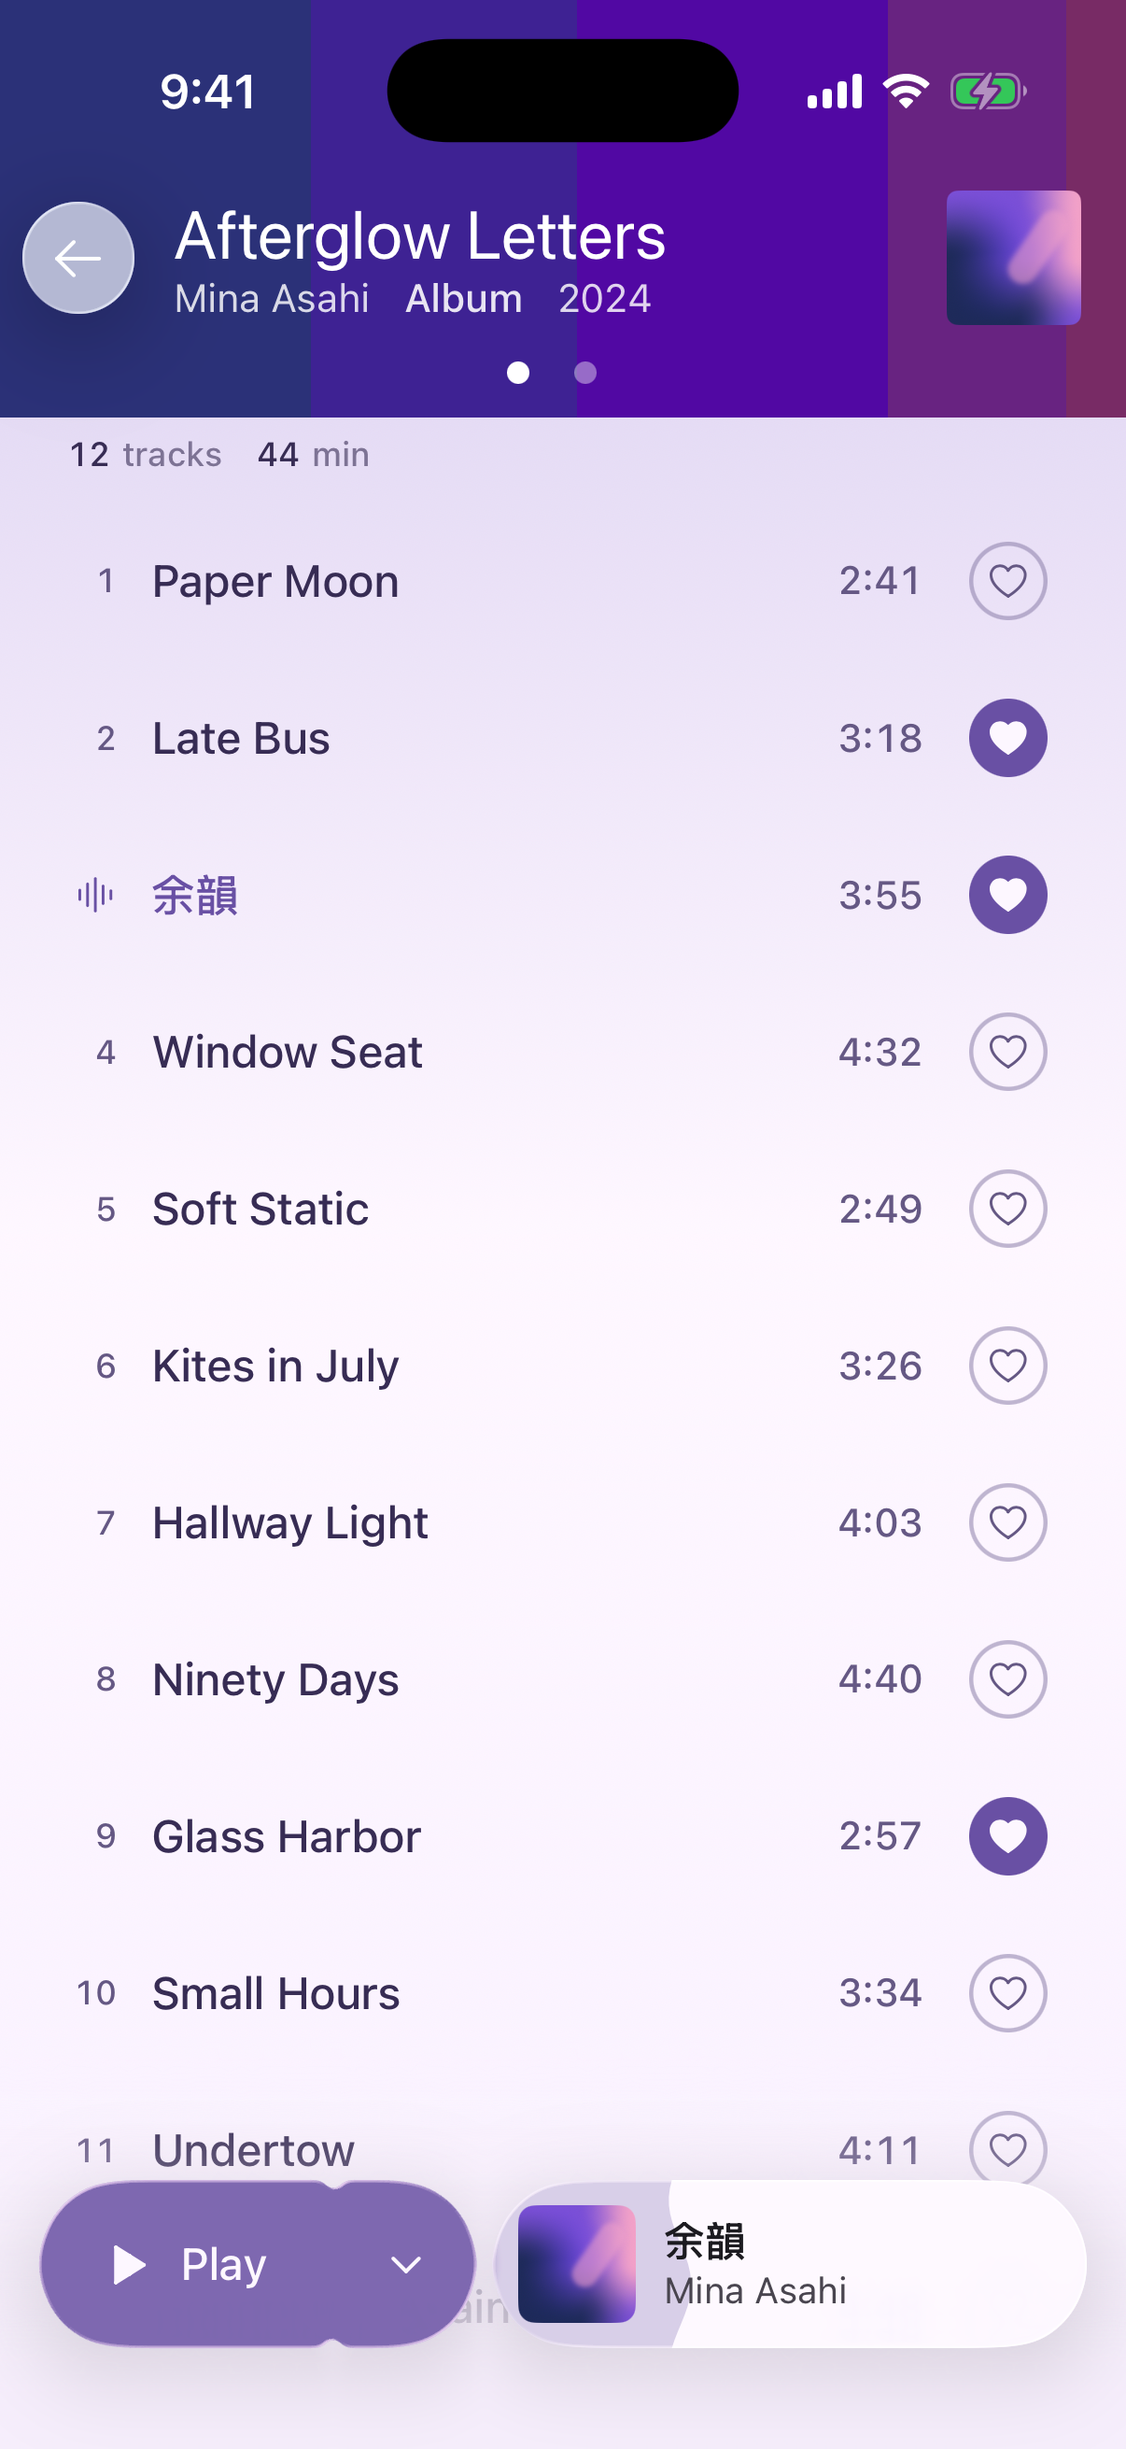
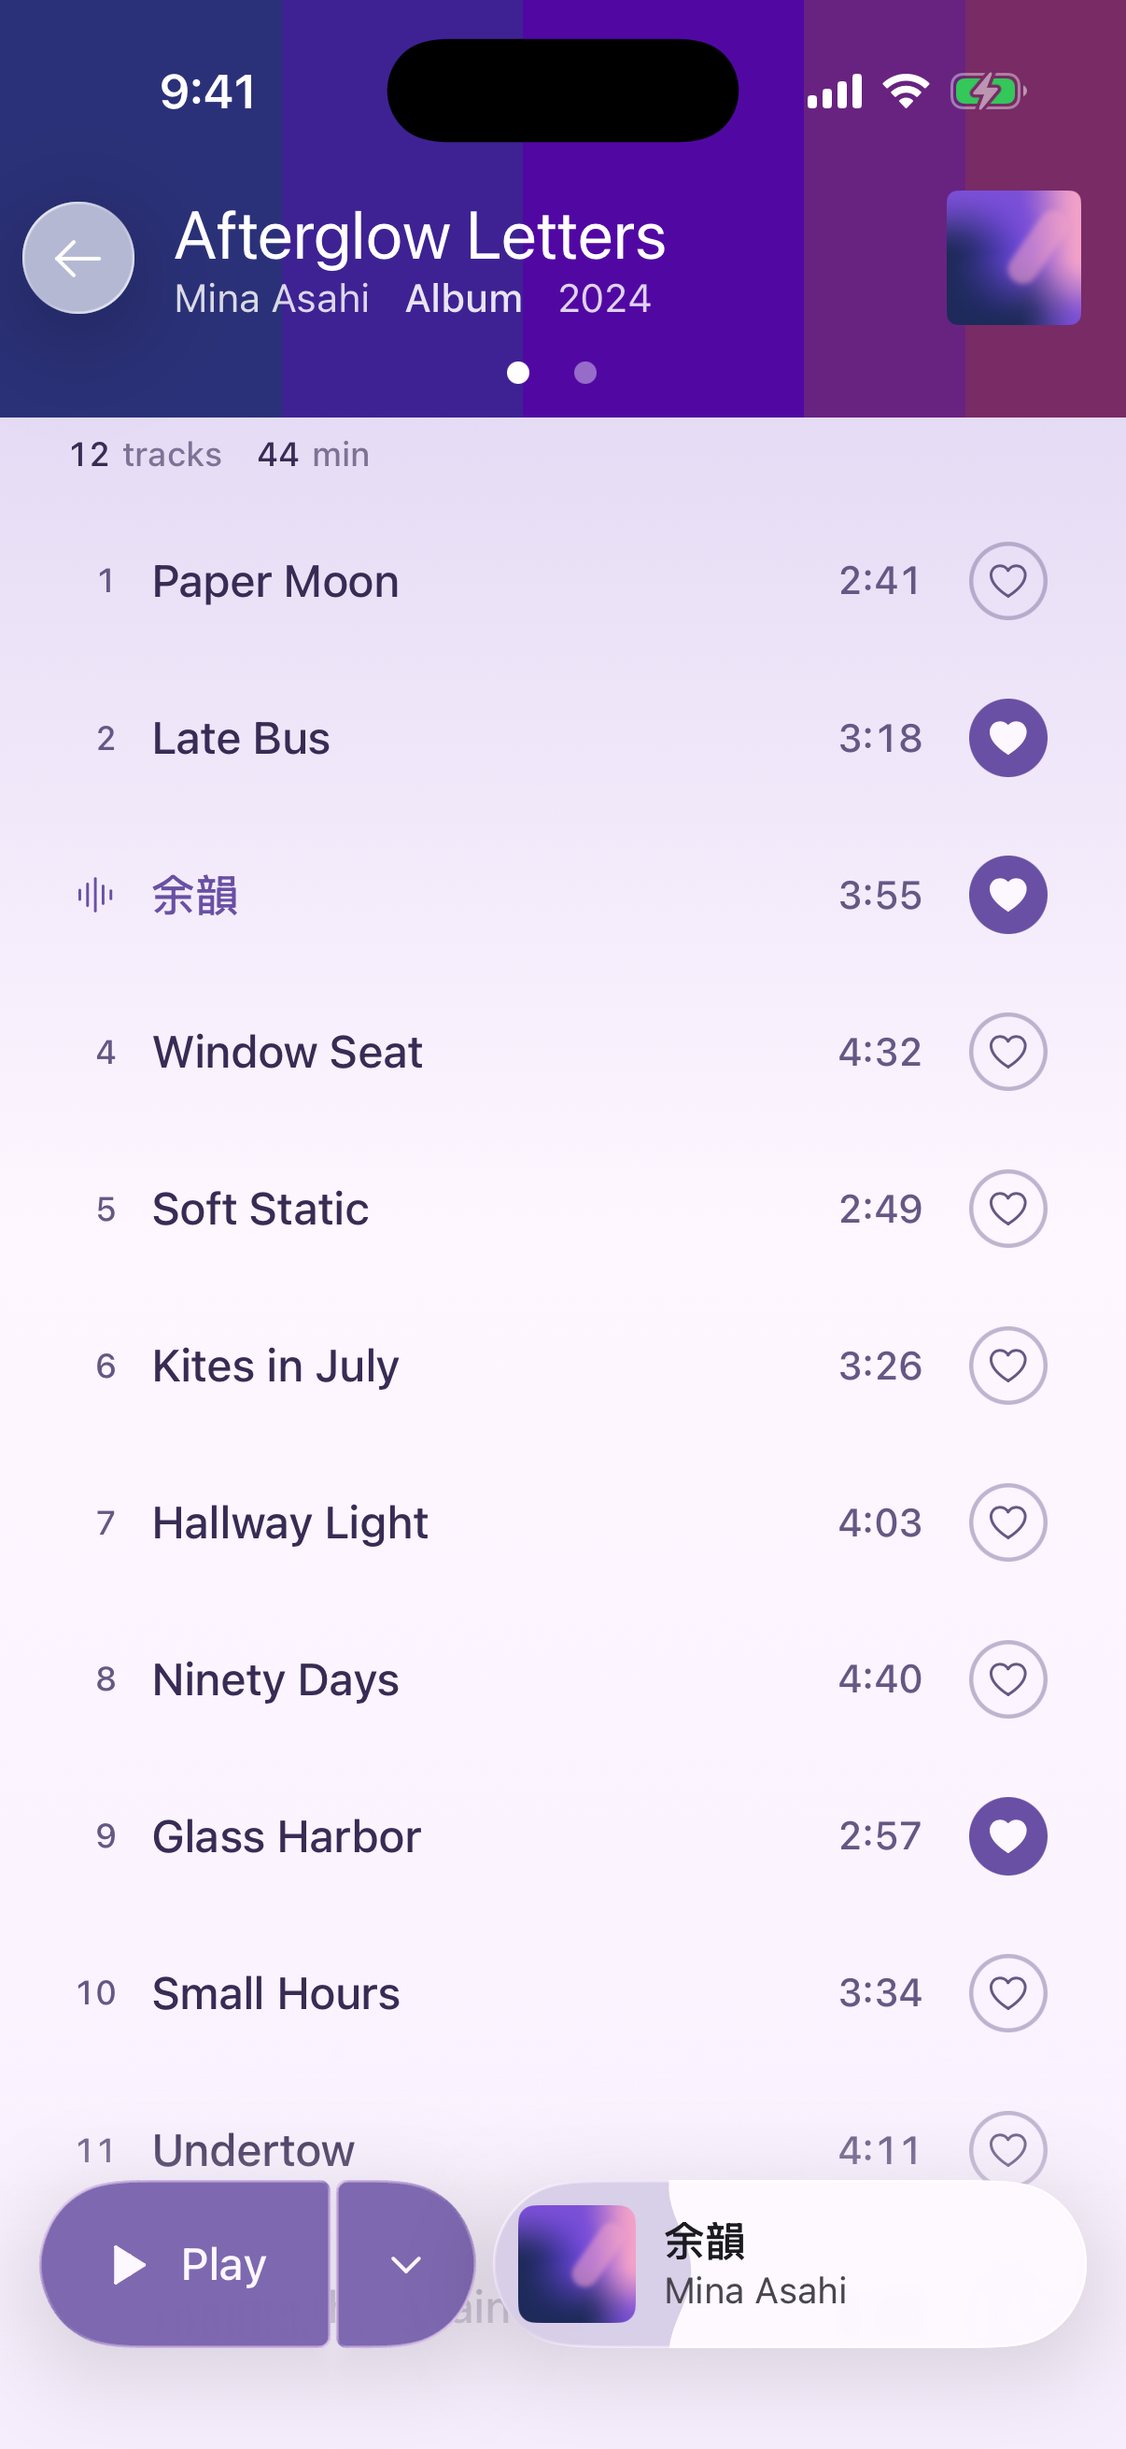
ios: real Yoin mark arms behind the album cover, spectrum fly-in from cover slices, M3 split button joint

diff --git a/iosApp/Yoin/Theme/YoinMarkPaths.swift b/iosApp/Yoin/Theme/YoinMarkPaths.swift
@@ -1,0 +1,115 @@
+import SwiftUI
+
+/// The real Yoin mark (three arms), ported from Android component/YoinMark.kt
+/// (exported from Figma, same as res/drawable/ic_yoin_launcher_foreground.xml).
+/// 1024×1024 view box; the arms pivot around the hub (512, 500).
+/// Arm 0 = tertiary ("first"), 1 = primary (violet), 2 = secondary (navy).
+enum YoinMarkPaths {
+    static let viewBox: CGFloat = 1024
+    static let hub = CGPoint(x: 512, y: 500)
+
+    /// (fill, centre line, line stroke width; 0 = the line is a filled sliver)
+    static let arms: [(fill: Path, line: Path, lineWidth: CGFloat)] = defs.map {
+        (parse($0.0), parse($0.1), $0.2)
+    }
+
+    private static let defs: [(String, String, CGFloat)] = [
+        ("M172.678 401.921C149.97 396.319 99.5819 390.37 66.6847 432.804C32.9531 476.314 41.3602 538.563 85.4627 571.842C106.711 587.875 134.238 598.446 151.945 604.775C173.271 612.397 197.656 619.65 221.53 626.142C228.147 627.941 256.803 632.768 263.5 634.5C258.128 687.726 249.508 750.719 310.209 800.246C352.996 835.156 416.368 829.236 451.753 787.025C486.19 745.944 506.216 688.882 466.5 653.5C466.5 653.5 448.817 634.685 456.166 622.084C459.88 615.715 482.277 584.668 503.523 555.516C522.775 529.098 509.29 491.515 477.595 483.515L431.67 471.924L172.678 401.921Z",
+         "M87 437C131.456 476.373 325.523 529.493 417 551.132C380.523 608.976 329.456 678.162 417 762",
+         8),
+        ("M772.889 238.22C815.814 242.707 846.934 281.138 842.398 324.057C837.862 366.977 799.388 398.132 756.464 393.645C727.689 390.638 679.626 406.139 627.397 433.316C603.678 445.659 582.756 458.439 567.736 468.172C560.271 473.008 554.378 477.018 550.455 479.743C548.496 481.103 547.036 482.138 546.125 482.79C545.67 483.115 545.353 483.344 545.18 483.469C545.148 483.492 545.121 483.511 545.099 483.526C510.406 508.975 461.453 501.677 436.034 467.022C435.982 466.953 435.872 466.806 435.701 466.584C435.279 466.033 434.497 465.027 433.37 463.625C431.11 460.817 427.489 456.458 422.606 451.018C412.779 440.07 398.19 425.13 379.663 409.763C341.67 378.251 292.47 349.338 237.539 342.845C194.68 337.779 164.082 298.932 169.197 256.077C174.312 213.222 213.202 182.588 256.062 187.654C352.455 199.048 429.312 247.783 479.545 289.447C491.717 299.544 502.639 309.485 512.232 318.788C525.125 311.108 539.674 302.873 555.354 294.713C609.061 266.767 693.88 229.962 772.889 238.22ZM545.029 483.579C545.031 483.577 545.033 483.576 545.036 483.574C545.042 483.569 545.05 483.563 545.061 483.555C545.066 483.551 545.076 483.545 545.079 483.543L545.078 483.542C545.052 483.561 545.036 483.574 545.029 483.579Z",
+         "M511.972 414.52L509.931 415.967L511.37 417.997L513.408 416.564L511.972 414.52ZM209.285 219L208.945 221.477C299.039 233.708 374.271 282.255 427.066 327.894C453.446 350.699 474.179 372.738 488.313 389.073C495.379 397.238 500.793 403.975 504.436 408.665C506.257 411.009 507.636 412.842 508.557 414.085C509.017 414.706 509.363 415.18 509.593 415.497C509.708 415.656 509.794 415.775 509.85 415.854C509.878 415.893 509.899 415.922 509.913 415.941C509.919 415.951 509.924 415.958 509.927 415.962C509.929 415.964 509.93 415.966 509.931 415.967C509.931 415.967 509.931 415.967 511.972 414.52C514.012 413.073 514.011 413.072 514.01 413.07C514.009 413.068 514.007 413.066 514.005 413.063C514.001 413.057 513.995 413.048 513.987 413.037C513.971 413.014 513.947 412.982 513.916 412.939C513.855 412.853 513.764 412.727 513.644 412.561C513.404 412.23 513.048 411.742 512.577 411.106C511.634 409.834 510.233 407.971 508.387 405.595C504.695 400.843 499.226 394.038 492.097 385.799C477.841 369.324 456.939 347.105 430.339 324.11C377.173 278.15 301.062 228.937 209.624 216.523L209.285 219ZM511.972 414.52C513.408 416.564 513.408 416.564 513.409 416.563C513.411 416.563 513.412 416.561 513.415 416.559C513.42 416.556 513.429 416.55 513.44 416.542C513.462 416.526 513.496 416.503 513.542 416.471C513.633 416.407 513.769 416.312 513.951 416.186C514.315 415.934 514.858 415.558 515.573 415.069C517.004 414.089 519.123 412.652 521.867 410.827C527.357 407.178 535.349 401.977 545.345 395.784C565.34 383.397 593.341 367.047 625.364 351.193C689.565 319.408 769.366 289.913 833.233 297.712L833.539 295.231L833.845 292.749C768.383 284.755 687.4 314.904 623.15 346.713C590.948 362.656 562.805 379.089 542.715 391.536C532.668 397.76 524.631 402.99 519.102 406.666C516.337 408.504 514.2 409.954 512.751 410.945C512.027 411.441 511.475 411.822 511.103 412.08C510.917 412.209 510.776 412.307 510.681 412.374C510.634 412.407 510.598 412.432 510.574 412.449C510.562 412.458 510.552 412.464 510.546 412.469C510.543 412.471 510.54 412.473 510.539 412.474C510.537 412.475 510.536 412.476 511.972 414.52Z",
+         0),
+        ("M767.435 383.407C788.087 343.579 835.72 324.591 878.753 340.771C925.194 358.234 948.689 410.045 931.23 456.494C914.712 500.436 877.296 527.369 853.146 542.122C825.327 559.116 792.803 573.003 761.852 584.176C739.154 592.37 715.544 599.723 692.517 606.16C694.132 611.89 695.648 617.706 697.044 623.59C708.757 672.964 715.743 742.622 684.615 806.496C662.876 851.103 609.099 869.638 564.499 847.896C519.9 826.154 501.368 772.368 523.106 727.761C527.415 718.919 530.182 698.615 522.225 665.077C514.774 633.667 501.025 604.12 491.764 588.484L475.768 561.478C451.638 520.739 475.49 468.426 522.07 459.928L552.934 454.296C591.446 447.27 650.468 433.336 700.854 415.148C726.258 405.977 746.213 396.875 759.491 388.764C763.261 386.461 765.811 384.655 767.435 383.407Z",
+         "M900 381C870.952 458.266 639.23 518.528 527 539.001C562.367 598.701 621.217 742.48 573.684 840",
+         5),
+    ]
+
+    /// Minimal SVG path parser for the absolute M / L / C / Z commands these use.
+    static func parse(_ d: String) -> Path {
+        var path = Path()
+        var nums: [CGFloat] = []
+        var cmd: Character = "M"
+        func flush() {
+            switch cmd {
+            case "M":
+                var i = 0
+                while i + 1 < nums.count {
+                    let p = CGPoint(x: nums[i], y: nums[i + 1])
+                    if i == 0 { path.move(to: p) } else { path.addLine(to: p) }
+                    i += 2
+                }
+            case "L":
+                var i = 0
+                while i + 1 < nums.count { path.addLine(to: CGPoint(x: nums[i], y: nums[i + 1])); i += 2 }
+            case "C":
+                var i = 0
+                while i + 5 < nums.count {
+                    path.addCurve(to: CGPoint(x: nums[i + 4], y: nums[i + 5]),
+                                  control1: CGPoint(x: nums[i], y: nums[i + 1]),
+                                  control2: CGPoint(x: nums[i + 2], y: nums[i + 3]))
+                    i += 6
+                }
+            case "Z":
+                path.closeSubpath()
+            default: break
+            }
+            nums.removeAll()
+        }
+        var token = ""
+        func endToken() {
+            if let v = Double(token) { nums.append(CGFloat(v)) }
+            token = ""
+        }
+        for ch in d {
+            if "MLCZ".contains(ch) {
+                endToken(); flush(); cmd = ch
+                if ch == "Z" { flush() }
+            } else if ch == " " || ch == "," {
+                endToken()
+            } else if ch == "-" && !token.isEmpty && !token.hasSuffix("e") {
+                endToken(); token = "-"
+            } else {
+                token.append(ch)
+            }
+        }
+        endToken(); flush()
+        return path
+    }
+}
+
+/// Draws chosen arms of the mark in a view-box space (Canvas helper).
+struct YoinArmsCanvas: View {
+    var arms: [(index: Int, color: Color)]
+    var lineColor: Color
+    /// Android MarkPose: uniform scale about the box centre, a y offset, and a
+    /// horizontal squash about the hub.
+    var scale: CGFloat = 1
+    var translationY: CGFloat = 0
+    var squashX: CGFloat = 1
+
+    var body: some View {
+        Canvas { gc, size in
+            let s = min(size.width, size.height) / YoinMarkPaths.viewBox
+            gc.translateBy(x: 0, y: translationY)
+            gc.translateBy(x: size.width / 2, y: size.height / 2)
+            gc.scaleBy(x: scale, y: scale)
+            gc.translateBy(x: -size.width / 2, y: -size.height / 2)
+            gc.translateBy(x: (size.width - YoinMarkPaths.viewBox * s) / 2, y: (size.height - YoinMarkPaths.viewBox * s) / 2)
+            gc.scaleBy(x: s, y: s)
+            let hub = YoinMarkPaths.hub
+            gc.translateBy(x: hub.x, y: hub.y)
+            gc.scaleBy(x: squashX, y: 1)
+            gc.translateBy(x: -hub.x, y: -hub.y)
+            for arm in arms {
+                let a = YoinMarkPaths.arms[arm.index]
+                gc.fill(a.fill, with: .color(arm.color))
+                if a.lineWidth > 0 {
+                    gc.stroke(a.line, with: .color(lineColor), style: StrokeStyle(lineWidth: a.lineWidth, lineCap: .round))
+                } else {
+                    gc.fill(a.line, with: .color(lineColor))
+                }
+            }
+        }
+    }
+}

diff --git a/iosApp/Yoin/Album/AlbumDetailView.swift b/iosApp/Yoin/Album/AlbumDetailView.swift
@@ -20,7 +20,7 @@ struct AlbumDetailView: View {
     var album: Album
     var padColumn = false
 
-    @State private var p: CGFloat = LaunchConfig.screen == "album-list" ? 1 : 0
+    @State private var p: CGFloat = LaunchConfig.screen == "album-list" ? 1 : LaunchConfig.screen == "album-mid" ? 0.42 : 0
     @State private var dragBase: CGFloat?
 
     /// The cover's own scheme (title, blocks, dots, Play) and the app's
@@ -50,7 +50,7 @@ struct AlbumDetailView: View {
                 trackList(w: w)
                     .opacity(e)
                     .allowsHitTesting(e >= 0.5)
-                spectrum(w: w, top: geo.safeAreaInsets.top)
+                spectrum(w: w, side: side, top: geo.safeAreaInsets.top)
                 header(white: false, w: w)
                     .opacity(1 - smooth(p, 0.25, 0.7))
                 header(white: true, w: w)
@@ -126,29 +126,22 @@ struct AlbumDetailView: View {
         .frame(width: w)
     }
 
-    /// The Yoin mark's lower arms behind the cover: arm 0 in the cover's
-    /// primary (left), arm 2 in its secondary (right), scaled up so they bleed
-    /// off both edges, clipped at the header.
+    /// The real Yoin mark's arms 0 and 2 behind the cover (AlbumSpectrumBar
+    /// drawButterfly, Compact pose): box = (0, header bottom, W, band),
+    /// scale 1.8 about its centre, translationY −0.1 × band, squash 1.8 about
+    /// the hub; arm 0 in the cover's primary, arm 2 in its secondary, centre
+    /// lines in surface @ 0.65; clipped above at the header.
     private func butterfly(w: CGFloat, side: CGFloat, band: CGFloat) -> some View {
-        let hubY = headerContent + band * 0.5 - band * 0.1
-        return ZStack {
-            Capsule()
-                .fill(s.primary)
-                .frame(width: w * 0.36, height: band * 0.95)
-                .rotationEffect(.degrees(45))
-                .position(x: w * 0.5 - w * 0.26, y: hubY + band * 0.24)
-            Capsule()
-                .fill(s.secondary)
-                .frame(width: w * 0.36, height: band * 0.95)
-                .rotationEffect(.degrees(-45))
-                .position(x: w * 0.5 + w * 0.26, y: hubY + band * 0.24)
-        }
-        // Clipped only above (at the header), so the arms' rounded ends show.
-        .frame(width: w, height: headerContent + band * 1.7, alignment: .top)
-        .mask(alignment: .top) {
-            Rectangle().padding(.top, headerContent)
-        }
-        .allowsHitTesting(false)
+        YoinArmsCanvas(arms: [(0, s.primary), (2, s.secondary)],
+                       lineColor: app.surface.opacity(0.65),
+                       scale: 1.8, translationY: -0.1 * band, squashX: 1.8)
+            .frame(width: w, height: band)
+            .offset(y: headerContent)
+            .frame(width: w, height: headerContent + band * 1.8, alignment: .topLeading)
+            .mask(alignment: .top) {
+                Rectangle().padding(.top, headerContent)
+            }
+            .allowsHitTesting(false)
     }
 
     /// Hero cover ↔ 48 pt stamp at the end of the title row.
@@ -340,22 +333,46 @@ struct AlbumDetailView: View {
 
     // MARK: Spectrum bar
 
-    private func spectrum(w: CGFloat, top: CGFloat) -> some View {
+    /// AlbumSpectrumBar drawSpectrum: each of the 28 strips starts as a slice
+    /// of the cover and flies to its slot in the header bar
+    /// (q = smoothstep(0.06 + lag, 0.6 + lag, p), lag = 0.22 × i / 28); the
+    /// cover slice fades out as the flat locked color fades in over
+    /// smoothstep(0, 0.55, q).
+    private func spectrum(w: CGFloat, side: CGFloat, top: CGFloat) -> some View {
         let colors = AlbumSpectrum.colors(for: album)
         let n = AlbumSpectrum.strips
-        let height = top + headerContent
-        return HStack(spacing: 0) {
+        let slice = side / CGFloat(n)
+        let heroX = (w - side) / 2, heroY = headerContent + 28
+        let barH = top + headerContent
+        return ZStack(alignment: .topLeading) {
             ForEach(0..<n, id: \.self) { i in
                 let lag = 0.22 * CGFloat(i) / CGFloat(n)
-                Rectangle()
-                    .fill(colors[min(i, colors.count - 1)])
-                    .frame(width: w / CGFloat(n) + 1.5)
-                    .opacity(smooth(smooth(p, 0.06 + lag, 0.6 + lag), 0, 0.55))
+                let q = smooth(p, 0.06 + lag, 0.6 + lag)
+                let flat = smooth(q, 0, 0.55)
+                let x = lerp(heroX + CGFloat(i) * slice, CGFloat(i) * w / CGFloat(n), q)
+                let y = lerp(heroY, -top, q)
+                let sw = lerp(slice, w / CGFloat(n), q) + 1.5
+                let sh = lerp(side, barH, q)
+                ZStack(alignment: .topLeading) {
+                    CoverArt(palette: album.palette, cornerRadius: 0, seed: album.seed)
+                        .frame(width: side, height: side)
+                        .offset(x: -CGFloat(i) * slice)
+                        .frame(width: slice, height: side, alignment: .topLeading)
+                        .clipped()
+                        .scaleEffect(x: sw / slice, y: sh / side, anchor: .topLeading)
+                        .frame(width: sw, height: sh, alignment: .topLeading)
+                        .opacity(1 - flat)
+                    Rectangle()
+                        .fill(colors[min(i, colors.count - 1)])
+                        .frame(width: sw, height: sh)
+                        .opacity(flat)
+                }
+                .frame(width: sw, height: sh, alignment: .topLeading)
+                .clipped()
+                .offset(x: x, y: y)
             }
         }
-        .frame(width: w, height: height, alignment: .leading)
-        .clipped()
-        .offset(y: -top)
+        .frame(width: w, alignment: .topLeading)
         .opacity(p > 0.001 ? 1 : 0)
         .allowsHitTesting(false)
     }

diff --git a/iosApp/Yoin/Shell/ShellBar.swift b/iosApp/Yoin/Shell/ShellBar.swift
@@ -191,10 +191,12 @@ struct ShellBar: View {
 
     /// Android detail pose: [Play split, 156 pt][8][now-playing pill]. Both
     /// halves in the cover's primary / onPrimary; ▾ opens the detail menu.
+    /// M3 SplitButton: 2 pt gap, 4 pt inner corners, full outer corners. Own
+    /// container with 0 spacing, so the halves don't melt into one blob.
     private func playSplit(_ album: Album) -> some View {
         let s = CoverScheme(album: album, dark: colorScheme == .dark)
         let tint = s.primary.opacity(0.85)
-        return HStack(spacing: 2) {
+        return GlassEffectContainer(spacing: 0) { HStack(spacing: 2) {
             Button {} label: {
                 HStack(spacing: 8) {
                     YoinIcon("play_filled", size: 20)
@@ -209,7 +211,7 @@ struct ShellBar: View {
             .buttonStyle(.plain)
             .glassEffect(.regular.tint(tint).interactive(),
                          in: UnevenRoundedRectangle(topLeadingRadius: 30, bottomLeadingRadius: 30,
-                                                    bottomTrailingRadius: 6, topTrailingRadius: 6))
+                                                    bottomTrailingRadius: 4, topTrailingRadius: 4))
             .glassEffectID("home", in: glassNS)
 
             Menu {
@@ -230,11 +232,11 @@ struct ShellBar: View {
             }
             .buttonStyle(.plain)
             .glassEffect(.regular.tint(tint).interactive(),
-                         in: UnevenRoundedRectangle(topLeadingRadius: 6, bottomLeadingRadius: 6,
+                         in: UnevenRoundedRectangle(topLeadingRadius: 4, bottomLeadingRadius: 4,
                                                     bottomTrailingRadius: 30, topTrailingRadius: 30))
             .glassEffectID("split", in: glassNS)
             .accessibilityLabel("More play options")
-        }
+        } }
         .frame(width: 156)
     }
 }

diff --git a/iosApp/Yoin/App/AppModel.swift b/iosApp/Yoin/App/AppModel.swift
@@ -39,7 +39,7 @@ final class AppModel {
         glassFlavor = GlassFlavor(rawValue: LaunchConfig.glass) ?? .system
         switch LaunchConfig.baseScreen {
         case "library": section = .library
-        case "album", "album-list": path = [library.albums()[0]]
+        case "album", "album-list", "album-mid": path = [library.albums()[0]]
         case "np": npExpanded = true
         case "np-short": npExpanded = true; npForceShort = true
         case "np-morph": slowMorph = true
